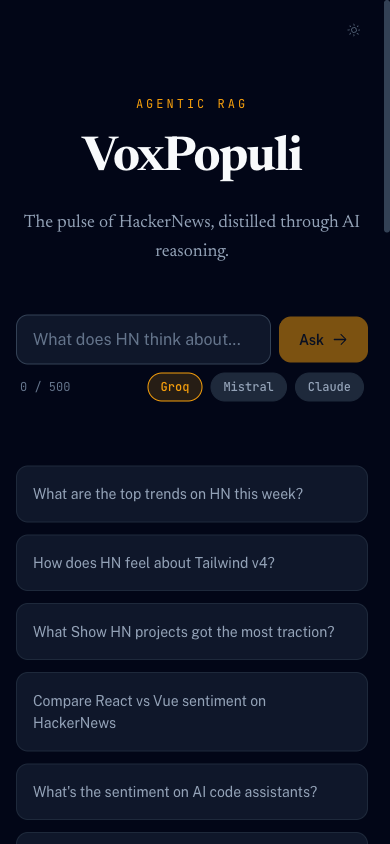
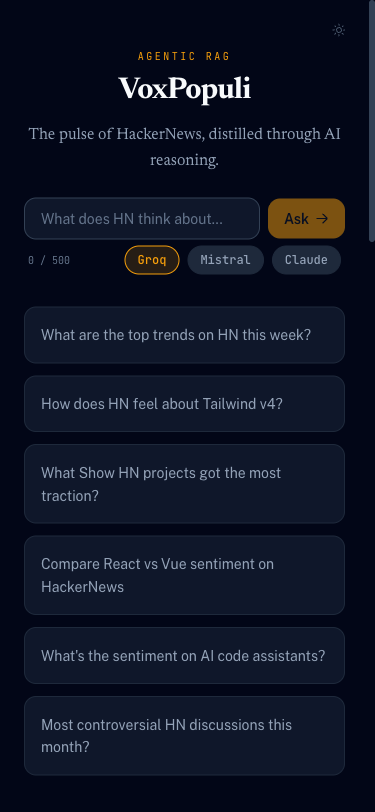
style(web): improve mobile responsiveness
- Scale title from 3xl (mobile) to 7xl (desktop)
- Tighter section spacing on mobile (py-8 vs py-16)
- Smaller search bar padding and font on mobile
- Add horizontal padding to all sections on mobile
- Update mobile screenshot in docs

diff --git a/apps/web/src/app/components/chat/chat.component.html b/apps/web/src/app/components/chat/chat.component.html
@@ -53,32 +53,34 @@
     @if (!loading() && !error() && !response()) {
 
     <!-- SECTION 1: Hero -->
-    <section class="flex-1 flex flex-col items-center justify-center text-center pt-24 pb-16">
+    <section
+      class="flex-1 flex flex-col items-center justify-center text-center pt-12 sm:pt-24 pb-8 sm:pb-16"
+    >
       <p
-        class="text-mono text-xs tracking-[0.25em] uppercase text-accent-amber mb-4"
+        class="text-mono text-[10px] sm:text-xs tracking-[0.25em] uppercase text-accent-amber mb-2 sm:mb-4"
         aria-label="Product category"
       >
         Agentic RAG
       </p>
       <h1
-        class="text-editorial text-5xl sm:text-6xl md:text-7xl font-bold tracking-tight text-text-primary mb-5 leading-tight"
+        class="text-editorial text-3xl sm:text-5xl md:text-7xl font-bold tracking-tight text-text-primary mb-3 sm:mb-5 leading-tight"
       >
         VoxPopuli
       </h1>
       <p
-        class="text-editorial text-lg sm:text-xl text-text-secondary max-w-lg mb-12 leading-relaxed"
+        class="text-editorial text-base sm:text-lg md:text-xl text-text-secondary max-w-lg mb-6 sm:mb-12 leading-relaxed px-2"
       >
         The pulse of HackerNews, distilled through AI reasoning.
       </p>
 
       <!-- Search bar -->
-      <div class="w-full max-w-xl">
+      <div class="w-full max-w-xl px-2 sm:px-0">
         <div class="flex items-center gap-2">
           <label for="query-input" class="sr-only">Your question</label>
           <input
             id="query-input"
             type="text"
-            class="vp-input flex-1 min-w-0 text-base"
+            class="vp-input flex-1 min-w-0 text-sm sm:text-base py-2.5 sm:py-3"
             placeholder="What does HN think about..."
             [ngModel]="query()"
             (ngModelChange)="query.set($event)"
@@ -88,7 +90,7 @@
           />
           <button
             type="button"
-            class="vp-btn-primary px-5 py-3 gap-2"
+            class="vp-btn-primary px-4 sm:px-5 py-2.5 sm:py-3 gap-1.5 text-sm"
             [disabled]="submitDisabled()"
             (click)="submit()"
             aria-label="Submit query"
@@ -100,7 +102,7 @@
               viewBox="0 0 24 24"
               stroke-width="2"
               stroke="currentColor"
-              class="w-4 h-4"
+              class="w-3.5 h-3.5 sm:w-4 sm:h-4"
               aria-hidden="true"
             >
               <path
@@ -111,8 +113,8 @@
             </svg>
           </button>
         </div>
-        <div class="flex items-center justify-between mt-2 px-1">
-          <span class="text-mono text-xs text-text-muted">
+        <div class="flex items-center justify-between mt-1.5 sm:mt-2 px-1">
+          <span class="text-mono text-[10px] sm:text-xs text-text-muted">
             {{ charCount() }} / {{ maxLength }}
           </span>
           <app-provider-selector [(selectedProvider)]="selectedProvider" />
@@ -121,7 +123,10 @@
     </section>
 
     <!-- SECTION 2: Example questions -->
-    <section class="pb-16 max-w-3xl mx-auto w-full" aria-label="Example questions">
+    <section
+      class="pb-8 sm:pb-16 max-w-3xl mx-auto w-full px-2 sm:px-0"
+      aria-label="Example questions"
+    >
       <div class="grid grid-cols-1 sm:grid-cols-2 md:grid-cols-3 gap-3">
         @for (q of exampleQueries; track q) {
         <button
@@ -138,7 +143,7 @@
     <hr class="vp-divider max-w-2xl mx-auto" aria-hidden="true" />
 
     <!-- SECTION 3: Feature highlights -->
-    <section class="py-16 max-w-3xl mx-auto w-full" aria-label="How it works">
+    <section class="py-8 sm:py-16 max-w-3xl mx-auto w-full px-2 sm:px-0" aria-label="How it works">
       <p class="text-mono text-xs tracking-[0.2em] uppercase text-text-muted text-center mb-2">
         How it works
       </p>
@@ -238,7 +243,10 @@
     <hr class="vp-divider max-w-2xl mx-auto" aria-hidden="true" />
 
     <!-- SECTION 4: Example answer preview -->
-    <section class="py-16 max-w-3xl mx-auto w-full" aria-label="Example response">
+    <section
+      class="py-8 sm:py-16 max-w-3xl mx-auto w-full px-2 sm:px-0"
+      aria-label="Example response"
+    >
       <p class="text-mono text-xs tracking-[0.2em] uppercase text-text-muted text-center mb-2">
         See it in action
       </p>
@@ -337,7 +345,7 @@
     <hr class="vp-divider max-w-2xl mx-auto" aria-hidden="true" />
 
     <!-- SECTION 5: Footer -->
-    <footer class="py-16 text-center">
+    <footer class="py-8 sm:py-16 text-center">
       <p class="text-text-muted text-sm">Built with Claude, Groq, Mistral &middot; Open source</p>
       <p class="text-mono text-xs text-text-faint mt-2">VoxPopuli v1.0</p>
     </footer>
